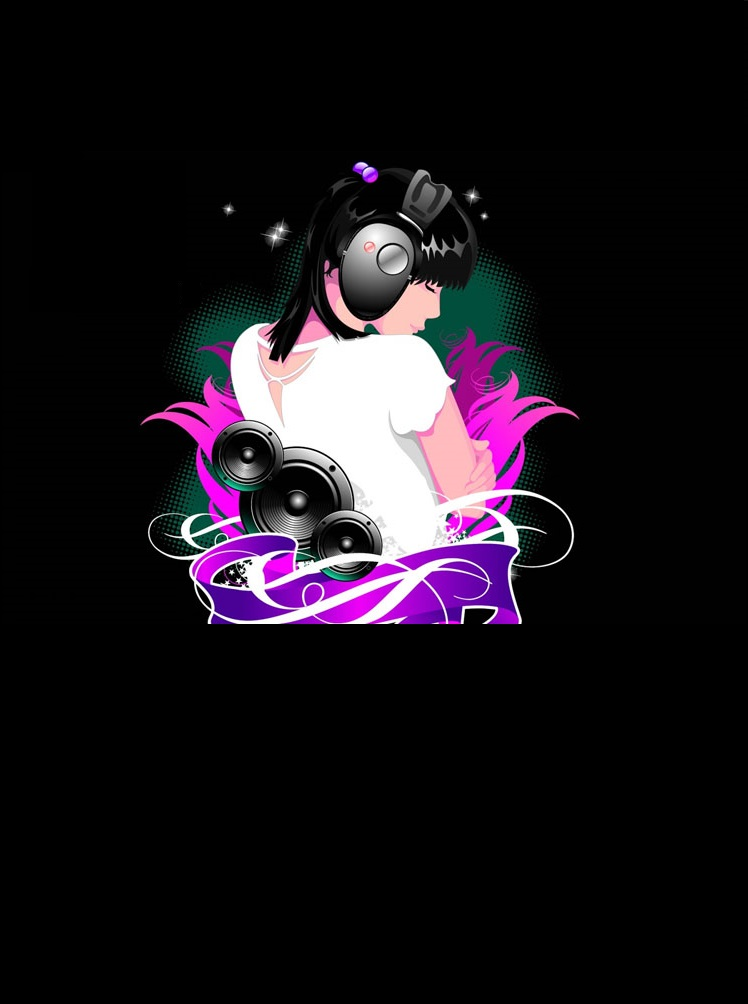
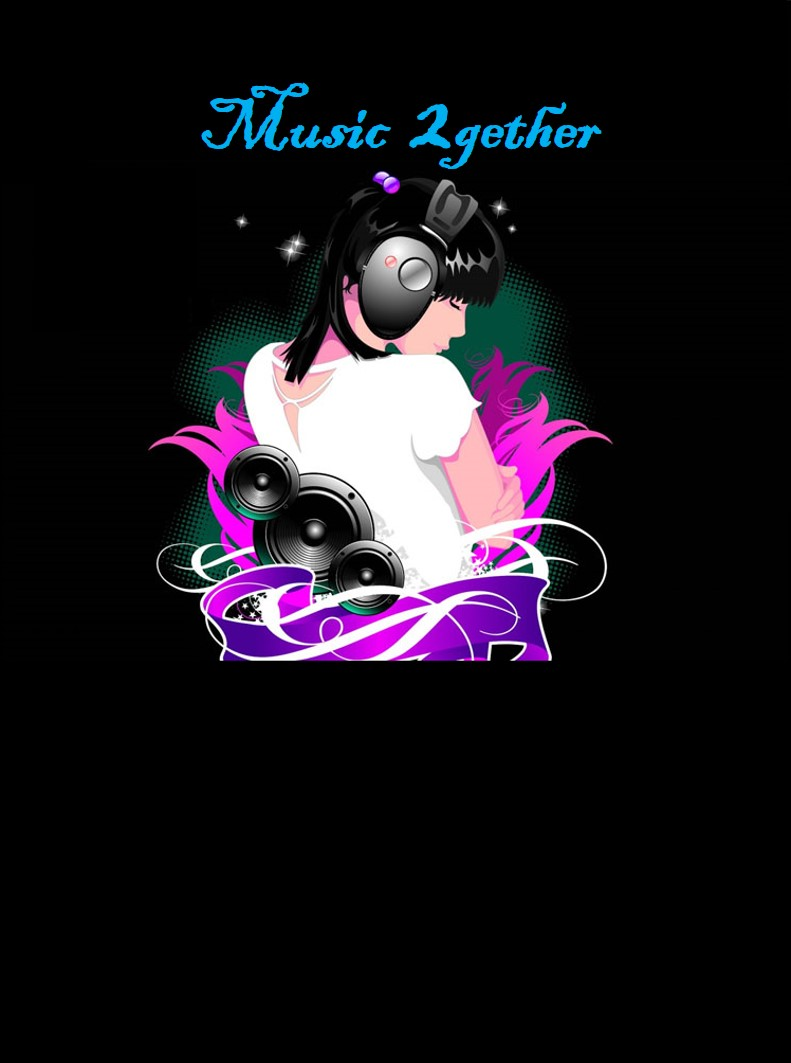
v2

diff --git a/register.html b/register.html
@@ -1,0 +1,64 @@
+<meta http-equiv="Content-Type" content="text/html; charset=big-5" />
+<link href='base2.css' rel='stylesheet' type='text/css'>
+<link href='newID.css' rel='stylesheet' type='text/css'>
+<html>
+<head>
+<title>NewID</title>
+
+<!--music 2gether-->
+<!--
+<div style="text-align: center; color: black;">
+<div><span
+style="font-size: 36pt; font-family: &quot;Blackadder ITC&quot;; color: rgb(0, 176, 240); font-weight: bold;">Music
+</span><span
+style="font-size: 36pt; font-family: &quot;Blackadder ITC&quot;; color: rgb(0, 176, 240); font-weight: bold;"><span
+style="">&nbsp;</span></span><span
+style="font-size: 60pt; font-family: &quot;Blackadder ITC&quot;; color: rgb(0, 176, 240); font-weight: bold;">2</span><span
+style="font-size: 36pt; font-family: &quot;Blackadder ITC&quot;; color: rgb(0, 176, 240); font-weight: bold;">gether</span></div>
+</div>
+-->
+<!--music 2gether-->
+
+
+	<script type="text/javascript" src="jquery-1.11.1.min.js"></script>
+	<script>
+		$(document).ready
+		(
+			function()
+			{
+				$('#send').click(function (){
+					$.ajax({
+					 url: "registercheck.php",
+					 data: $(".register-form").serialize(),
+					 type:'POST',
+					 dataType:'text',
+					 error: function(xhr) {
+						alert('Ajax request error');
+					},
+					success: function(response) {
+						$('#msg').html(response);
+						$('#msg').fadeIn();
+					}			
+					});
+				});
+			}	
+		);
+    </script>
+</head>
+<body>
+<div id='container'><!--container-->
+	<div class="subm" >
+		<form class="register-form">
+		<input type="text" name="name" placeholder="Real Name" style="font-size:20px; text-align:center;"/> <br></br>
+		<input type="text" name="nick" placeholder="Nick Name" style="font-size:20px; text-align:center;"/> <br></br>
+		<input type="text" name="age" placeholder="Age" style="font-size:20px; text-align:center;"/> <br></br>
+		<input type="text" name="user" placeholder="ID" style="font-size:20px; text-align:center;"/> <br></br>
+		<input type="password" name="pw" placeholder="Password" style="font-size:20px; text-align:center;"/> <br></br>
+		<input type="password" name="pw2" placeholder="Password again" style="font-size:20px; text-align:center;"/> 
+		</form><br>
+		<button type = "submit" id = "send">Submit</button>
+	</div>
+	<div id="msg"></div>
+</div>
+</body>
+</html>

diff --git a/index.html b/index.html
@@ -17,7 +17,32 @@
 
 <!--  -->
 <link href='base.css' rel='stylesheet' type='text/css'>
+<link href='page1.css' rel='stylesheet' type='text/css'>
 
+<script type="text/javascript" src="jquery-1.11.1.min.js"></script>
+<script>
+		$(document).ready
+		(
+			function()
+			{
+				$('#send').click(function (){
+					$.ajax({
+					 url: "logcheck.php",
+					 data: $(".login-form").serialize(),
+					 type:'POST',
+					 dataType:'text',
+					 error: function(xhr) {
+						alert('Ajax request error');
+					},
+					success: function(response) {
+						$('#msg').html(response);
+						$('#msg').fadeIn();
+					}			
+					});
+				});
+			}	
+		);
+</script>	
 
 <title>m2_new</title>
 <head>
@@ -26,7 +51,8 @@
 <body>
 <div id='container'><!--container-->
 
-<!--music 2gether-->
+
+<!--music 2gether--><!--
 <div style="text-align: center; color: black;">
 <div><span
 style="font-size: 36pt; font-family: &quot;Blackadder ITC&quot;; color: rgb(0, 176, 240); font-weight: bold;">Music
@@ -35,17 +61,39 @@ style="font-size: 36pt; font-family: &quot;Blackadder ITC&quot;; color: rgb(0, 1
 style="">&nbsp;</span></span><span
 style="font-size: 60pt; font-family: &quot;Blackadder ITC&quot;; color: rgb(0, 176, 240); font-weight: bold;">2</span><span
 style="font-size: 36pt; font-family: &quot;Blackadder ITC&quot;; color: rgb(0, 176, 240); font-weight: bold;">gether</span></div>
-</div>
+</div>-->
 <!--music 2gether-->
 
 <!--輸入-->
 <div id="acc">
-<input name="UrName" type="text" required="required" placeholder="帳號">
+
+
+
+<form class="login-form">
+<input name="UrName" type="text" required="required" placeholder="ID" style="font-size:20px; text-align:center;">
 <br> 
 <br>
-<input name="PsWd" type="text" required="required" placeholder="密碼">
+<input name="PsWd" type="text" required="required" placeholder="Password" style="font-size:20px; text-align:center;">
+</form>
+<br>
+<div class="subm">
+<button type="Submit" id="send" align = "center">Login</button>
+</div>
+<div id="msg">
+</div>
+
+
 </div>
 <!--輸入-->
+
+<p> </p>
+<p> </p>
+<p> </p>
+
+<a href="http://luffy.ee.ncku.edu.tw/~hank/cur2/register.html">
+<span style="color:white; margin-left:350px" >New Register</span>
+</a>
+
 
 </div><!--container-->
 </body>

diff --git a/newID.css b/newID.css
@@ -1,0 +1,85 @@
+.subm{
+	text-align: center;
+	margin-top: 30%;
+	color: white;
+	font-size: 25px;
+
+}
+.subm button
+		{
+		/*
+		overflow: visible;
+		position: relative;
+		border: 0;
+		padding: 0;
+		cursor: pointer;
+		height: 40px;
+		width: 110px;
+		font: bold 15px/40px 'lucida sans', 'trebuchet MS', 'Tahoma';
+		color: #fff;
+		text-transform: uppercase;
+		background: #d83c3c;
+		border-radius: 0 3px 3px 0;      
+		text-shadow: 0 -1px 0 rgba(0, 0 ,0, .3);
+		*/
+		
+		overflow: visible;
+		position: relative;
+		border: 0;
+		padding: 0;
+		cursor: pointer;
+		height: 40px;
+		width: 250px;
+		font: bold 14px/40px 'lucida sans', 'trebuchet MS', 'Tahoma';
+		font-size: 20px;
+		/*color: #fff;*/
+		text-transform: uppercase;
+		color: fuchsia;
+		background: black;
+		/*background: #d83c3c;*/
+		border-size:1;
+		border:1px	solid #fff;
+		/*text-shadow: 0 -1px 0 rgba(0, 0 ,0, .3);*/
+		
+		
+		}   
+   
+		.subm button:hover
+		{     
+		/*background: #e54040;*/
+		background: black;
+		color:rgb(102, 102, 255);
+		
+		}   
+   
+		.subm button:active,
+		.subm button:focus
+		{  
+		color: rgb(0, 176, 240);
+		background: black;
+		outline: 0;   
+		/*background: #c42f2f;
+		outline: 0;   */
+		}
+ 
+		.subm button:before 
+		{ /* left arrow */
+			content: '';
+			/*position: absolute;
+			border-width: 8px 8px 8px 0;
+			border-style: solid solid solid none;
+			border-color: transparent #d83c3c transparent;
+			top: 12px;
+			left: -6px;*/
+		}
+ 
+		.subm button:hover:before
+		{
+		border-right-color: #e54040;
+		}
+ 
+		.subm button:focus:before,
+		.subm button:active:before
+		{
+        border-right-color: #c42f2f;
+		}

diff --git a/page1.css b/page1.css
@@ -1,35 +1,13 @@
 
-body {
-   
-/*    margin-top: -20px;*/
-    	
-	background-image: url(muzitube.jpg); background-repeat: no-repeat; background-position: 50% 0%;
-	/*height: 300px;*/
-	
-	background-size: 500px;
-	
-		/*
-	background-color:black 
-	調完再打開*/
-    
-	/*padding-bottom: 160px;*/
-/*
-    font-size: 16px;
-    font-family: 'Gafata', sans-serif;
-    line-height: 1.5em;
-*/
-	}
-#container {
-    margin: 0 auto;
-    max-width: 500px;
-}
-
 #acc{
-	margin-top: 70%;
+	margin-top: 90%;
 	text-align: center;
-
 }
 
+#acc span{
+	color: #fff;
+	/*color: fuchsia;*/
+}
 
 /*宇軒buttom*/
 .subm button
@@ -42,22 +20,28 @@ body {
 	height: 40px;
 	width: 80px;
 	font: bold 14px/40px 'lucida sans', 'trebuchet MS', 'Tahoma';
-	color: #fff;
+	font-size: 20px;
+	/*color: #fff;*/
 	text-transform: uppercase;
-	background: #d83c3c;
-	border-radius: 0 3px 3px 0;      
-	text-shadow: 0 -1px 0 rgba(0, 0 ,0, .3);
+	color: fuchsia;
+	background: black;
+	/*background: #d83c3c;*/
+	border-size:1;
+	border:1px	solid #fff;
+	/*text-shadow: 0 -1px 0 rgba(0, 0 ,0, .3);*/
 }   
    
 .subm button:hover
 {     
-	background: #e54040;
+	background: black;
+	color:rgb(102, 102, 255);
 }   
    
 .subm button:active,
 .subm button:focus
 {   
-	background: #c42f2f;
+	color: rgb(0, 176, 240);
+	background: black;
 	outline: 0;   
 }
  

diff --git a/ReS.html b/ReS.html
@@ -1,0 +1,18 @@
+<link href='base.css' rel='stylesheet' type='text/css'>
+<meta http-equiv="Content-Type" content="text/html; charset=big-5" />
+
+<!--URL要改成主頁面-->
+<!--URL要改成主頁面-->
+<meta http-equiv="EFRESH CONTENT=3;url=URL">
+
+<!--URL要改成主頁面-->
+<!--URL要改成主頁面-->
+
+<title>RegisterSuccess</title>
+
+<body>
+<div id='container'><!--container-->
+<p style="text-align:center; margin-top:90%; color:white; font-size:30; ">Register Success !!!</p>
+
+</div>
+</body>

diff --git a/base2.css b/base2.css
@@ -1,0 +1,26 @@
+
+body {
+   
+/*    margin-top: -20px;*/
+    	
+	background-image: url(background2.jpg); background-repeat: no-repeat; background-position: 50% 0%;
+	background-size: 500px;
+	/*height: 620px;
+	background-size: contain;*/
+	
+	/*
+	background-color:black 
+	調完再打開*/
+    
+	/*padding-bottom: 160px;*/
+/*
+    font-size: 16px;
+    font-family: 'Gafata', sans-serif;
+    line-height: 1.5em;
+*/
+	}
+#container {
+    margin: 0 auto;
+    max-width: 500px;
+}
+
